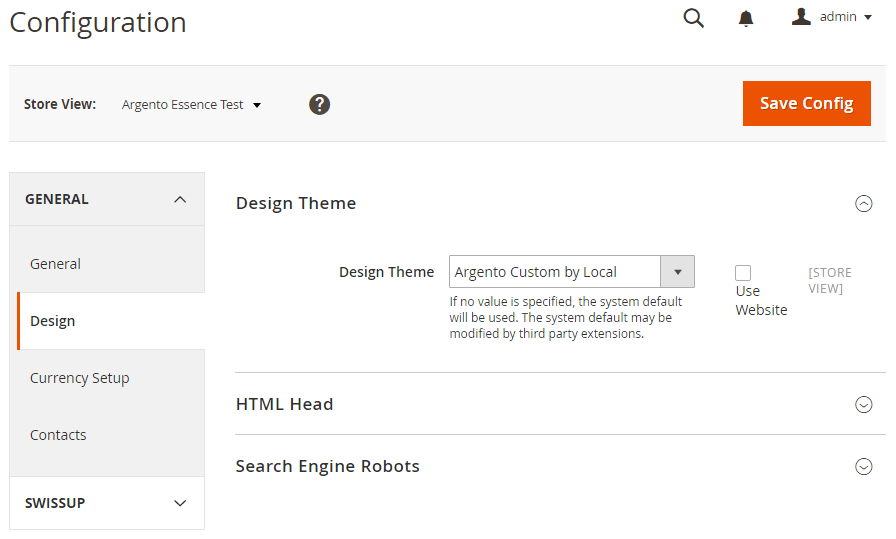
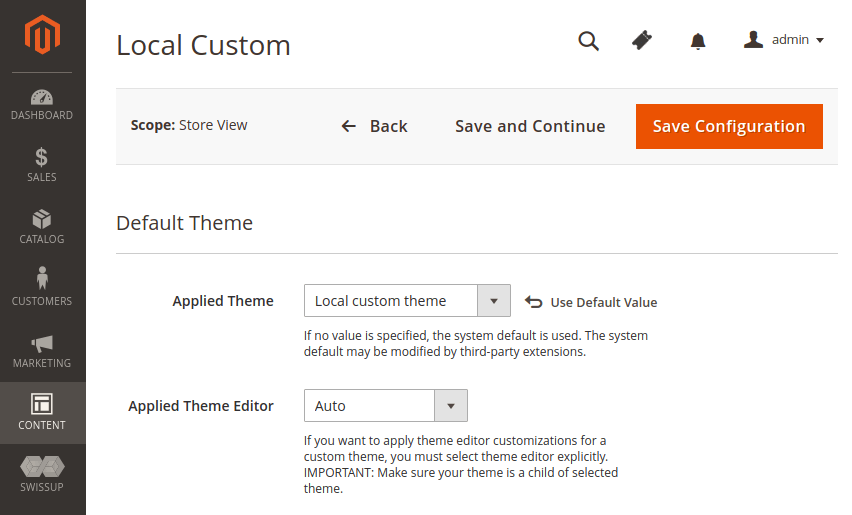
Argento theme-editor update

diff --git a/m2/argento/customization/custom-theme.md b/m2/argento/customization/custom-theme.md
@@ -23,35 +23,50 @@ custom theme allows you to change much more things:
 > modifications
 
 ## Contents
+{:.no_toc}
 
-1. [Create custom theme](#create-custom-theme)
-2. [Apply custom theme to your store](#apply-custom-theme)
+* TOC
+{:toc}
 
 ### Create custom theme
 
-Please, use our istructions at **[Custom Argento Themes Boilerplate](https://github.com/argento/theme-custom-boilerplates)**
-free repository or you can create custom theme manualy:
+#### Terminal command
+{:.collapsible}
 
-Let's create `Local/argento-[essence|flat|pure2|mall|stripes|luxury|force|home]-custom` theme based on
-`Swissup/argento-[essence|flat|pure2|mall|stripes|luxury|force|home]`.
+ 1. Open terminal and navigate to magento home folder.
+ 2. Run the following command:
 
-> This tutorial assumes that you'll replace `[essence|flat|pure2|mall|stripes|luxury|force|home]` entries with
-> theme name, you'd like to use
+    > Please replace `[essence|flat|pure2|mall|stripes|luxury|force|home]`
+    > with theme name, you'd like to use.
+
+    ```bash
+    bin/magento swissup:theme:create Local/my-theme [essence|flat|pure2|mall|stripes|luxury|force|home]
+    ```
+
+ 3. Log in to Magento backend and navigate to Content > Themes. You should see
+    new theme in the list.
+ 4. That's all. [Apply your new theme now](#apply-custom-theme)
+
+#### Manual
+{:.collapsible.collapsed}
+
+Please replace `[essence|flat|pure2|mall|stripes|luxury|force|home]` entries with
+theme name, you'd like to use
 
  1. Create folder for your new theme:
 
     ```
-    app/design/frontend/Local/argento-[essence|flat|pure2|mall|stripes|luxury|force|home]-custom
+    app/design/frontend/Local/my-theme
     ```
 
  2. Create following files inside new theme directory, to register your
-    theme in Magento :
+    theme in Magento:
 
     1.  composer.json
 
         ```json
         {
-            "name": "local/argento-[essence|flat|pure2|mall|stripes|luxury|force|home]-custom",
+            "name": "local/my-theme",
             "type": "magento2-theme",
             "version": "1.0.0",
             "require": {
@@ -68,7 +83,7 @@ Let's create `Local/argento-[essence|flat|pure2|mall|stripes|luxury|force|home]-
         ```xml
         <theme xmlns:xsi="http://www.w3.org/2001/XMLSchema-instance"
             xsi:noNamespaceSchemaLocation="urn:magento:framework:Config/etc/theme.xsd">
-            <title>Argento Custom by Local</title>
+            <title>Local custom theme</title>
             <parent>Swissup/argento-[essence|flat|pure2|mall|stripes|luxury|force|home]</parent>
         </theme>
         ```
@@ -78,78 +93,53 @@ Let's create `Local/argento-[essence|flat|pure2|mall|stripes|luxury|force|home]-
         ```php
         <?php
 
-        \Magento\Framework\Component\ComponentRegistrar::register(
-            \Magento\Framework\Component\ComponentRegistrar::THEME,
-            'frontend/Local/argento-[essence|flat|pure2|mall|stripes|luxury|force|home]-custom',
-            __DIR__
-        );
+        use Magento\Framework\Component\ComponentRegistrar;
+
+        ComponentRegistrar::register(ComponentRegistrar::THEME, 'frontend/Local/my-theme', __DIR__);
+
         ```
 
-    #### In one line
+ 3. Log in to Magento backend and navigate to Content > Themes. You should see
+    new theme in the list.
+ 4. That's all. [Apply your new theme now](#apply-custom-theme)
 
-    You can also create a custom theme more fastest with our command
+#### View Examples
+{:.collapsible.collapsed}
 
-    ```bash
-    php bin/magento swissup:theme:create <name> <parent-theme-name> --css
-    ```
-
-    **Command line arguments**
-
-    Argument  | Description
-    ----------|------------
-    name      | Put the theme name you want to create (Local/argento-stripes)
-    parent    | Put the parent short theme name (stripes)
-
-    **Command line options**
-
-    Option    | Description
-    ----------|------------
-    --css     | Should I create custom css? [default: false]
-
-
-    For example
-
-    ```bash
-    php bin/magento swissup:theme:create argento-stripes-custom stripes --css
-    ```
-
-    will generate Local/argento-stripes-custom theme based at stripes (swissup/theme-frontend-argento-stripes)
-
- 3. Log in to Magento backend and navigate to `Content > Themes`. You should
-    see new theme in the list.
-
-    > Clear cache if theme is not appeared in the list.
-
-    ![List of themes at Content > Themes](/images/m2/argento/customization/custom-theme/themes-list.png)
-
- 4. Run the following commands in terminal to deploy static content files:
-
-    ```bash
-    bin/magento setup:static-content:deploy
-    ```
-
- 4. That's all. Now you can [apply](#apply-custom-theme) theme to your store.
+If you have trouble when creating new theme, please take a look at our examples
+at [github repository](https://github.com/swissup/theme-frontend-argento-custom).
 
 ### Apply custom theme
 
-Navigate to `Stores > Configuration > Design` and select your new theme in
-`Design Theme` option dropdown.
-
-> Please note, that Magento 2.1 moved this config to separate
-> page. You can find it at `Content > Design > Configuration`
+Navigate to _Content > Design > Configuration_, select the store you wish
+to apply a theme, and select your theme in "Default Theme" section:
 
 ![Design Configuration](/images/m2/argento/customization/custom-theme/configuration.png)
 
-Press `Save Config` button.
+Save configuration, clear cache, and check the frontend.
 
-That's all, now you can modify anything you'd like to, without modifiyng core
-Argento files.
+### Enable theme editor for custom theme
 
-> **NOTE:** After enabling **CUSTOM** theme the **SwissupEditor** will not work for it.
-> It works **only** for native Argento designs.
-> Please, use custom `CSS, JS, templates` editing for changing custom theme look.
+> Supported since theme-editor version 1.9.8
+
+By default, custom theme doesn't inherit theme editor changes. If you want
+to apply the changes to your custom theme (inherited from one of Argento themes)
+you should explicitly indicate this in theme configuration:
+
+ 1. Navigate to _Content > Design > Configuration_.
+ 2. Select your custom theme.
+ 3. In the "Default Theme" section select "Applied Theme Editor"
+    **option that matches parent theme of your custom theme**:
+
+    ![Apply theme editor for custom theme](/images/m2/argento/customization/custom-theme/theme-editor.png)
+
+    > On the screenshot above "Local custom theme" is a child of "Argento Force"
+    > theme. That's why "Argento Force" editor is applied.
+
+ 4. Save configuration, clear cache, and check the frontend.
 
 #### Next Up
+{:.no_toc}
 
 - [Customization](../)
 - [Change page layout](../change-page-layout/)

diff --git a/m2/argento/customization/theme-editor.md b/m2/argento/customization/theme-editor.md
@@ -189,3 +189,7 @@ Possible tabs position:
   - Main Content - most common position for tabs (under product image and "add to cart" form blocks).
   - Product Info Main (bottom) - like tabs at Argento Luxury desing at product page. On right side under "add to cart" form.
 
+### Enable theme editor for custom theme
+
+You can find this information at
+[custom theme manual](/m2/argento/customization/custom-theme/#enable-theme-editor-for-custom-theme)
